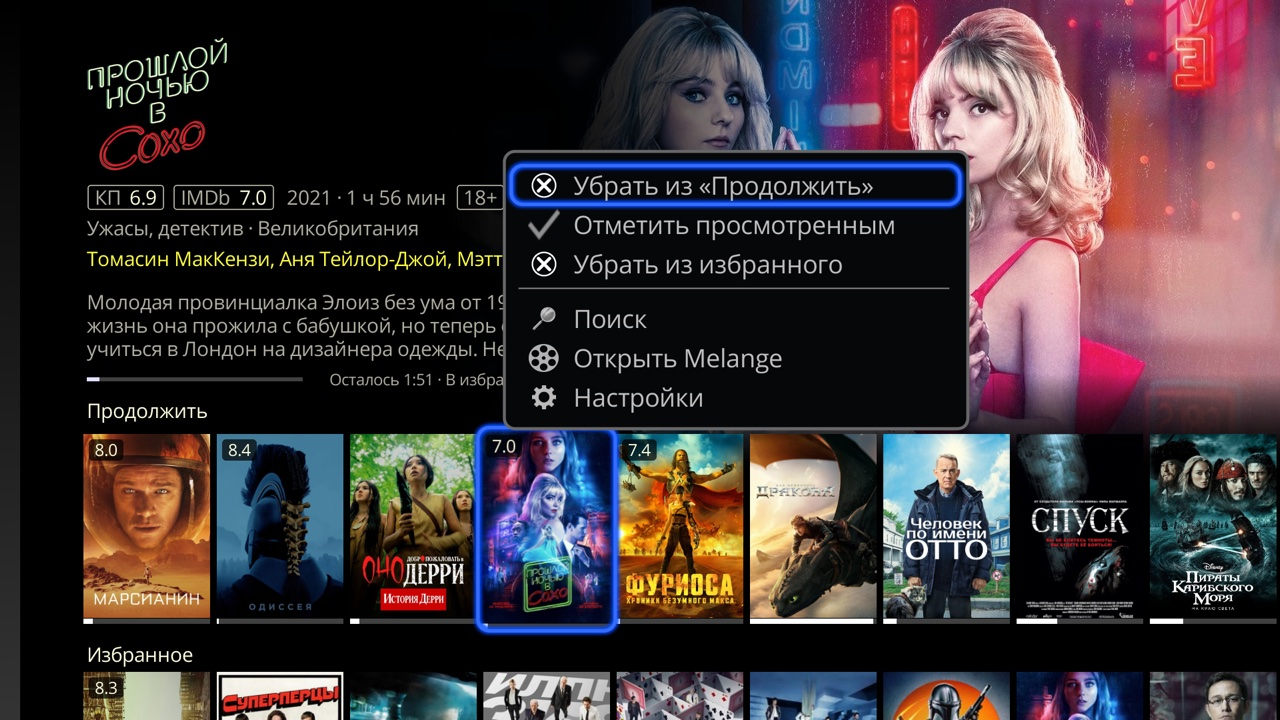
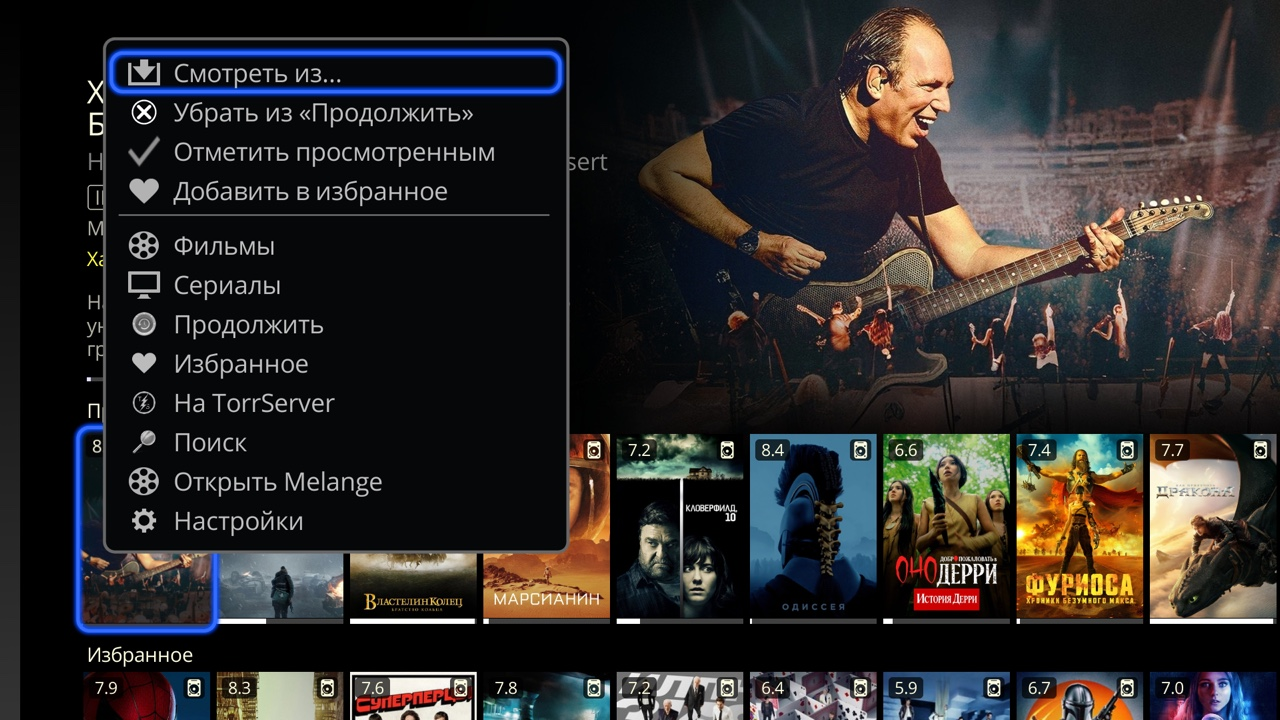
Melange: docs - TV tab POP UP screenshot with the new menu

diff --git a/docs/tv-tab.md b/docs/tv-tab.md
@@ -18,7 +18,7 @@
 
 4. На постере нажмите **POP UP**: там те же пункты, что в каталоге ([«Продолжить» и «Избранное»](favorites.md)), и ещё «Открыть Melange». На названии ряда в этом меню есть и «Настроить список...». Ряды, которые вы там включите, появятся во «ТВ» обычно через несколько секунд.
 
-   <img src="../screenshots/tv-tab-poster.jpg" alt="POP UP-меню на постере во вкладке «ТВ»: «Убрать из «Продолжить»», «Отметить просмотренным», «Убрать из избранного», «Поиск», «Открыть Melange», «Настройки»" width="100%">
+   <img src="../screenshots/tv-tab-poster.jpg" alt="POP UP-меню на постере во вкладке «ТВ»: «Смотреть из…», «Убрать из «Продолжить»», «Отметить просмотренным», «Добавить в избранное», «Фильмы», «Сериалы», «Продолжить», «Избранное», «На TorrServer», «Поиск», «Открыть Melange», «Настройки»" width="100%">
 
 ## Если не получилось
 

diff --git a/docs/tv-tab.en.md b/docs/tv-tab.en.md
@@ -18,7 +18,7 @@ Show Melange catalog rows right on the Dune home screen, in the TV tab. [← Con
 
 4. On a poster, press **POP UP**: it has the same items as in the catalog ([Continue Watching and Favorites](favorites.en.md)), plus Open Melange. On a row name the menu also has **Configure List...**. Rows you turn on there appear in TV usually a few seconds later.
 
-   <img src="../screenshots/tv-tab-poster.jpg" alt="POP UP menu on a poster in the TV tab: Remove from Continue Watching, Mark as watched, Remove from Favorites, Search, Open Melange, Settings" width="100%">
+   <img src="../screenshots/tv-tab-poster.jpg" alt="POP UP menu on a poster in the TV tab: Watch from…, Remove from Continue Watching, Mark as watched, Add to Favorites, Movies, Series, Continue Watching, Favorites, On TorrServer, Search, Open Melange, Settings" width="100%">
 
 ## If it did not work
 
